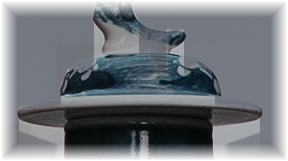
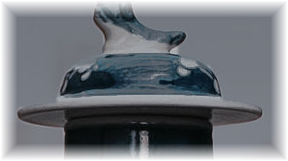
Deploy

diff --git a/assets/index-BKTSKZqw.css b/assets/index-BKTSKZqw.css
@@ -1,0 +1,1 @@
+/*! tailwindcss v4.1.11 | MIT License | https://tailwindcss.com */@layer properties{@supports (((-webkit-hyphens:none)) and (not (margin-trim:inline))) or ((-moz-orient:inline) and (not (color:rgb(from red r g b)))){*,:before,:after,::backdrop{--tw-translate-x:0;--tw-translate-y:0;--tw-translate-z:0;--tw-scale-x:1;--tw-scale-y:1;--tw-scale-z:1;--tw-rotate-x:initial;--tw-rotate-y:initial;--tw-rotate-z:initial;--tw-skew-x:initial;--tw-skew-y:initial;--tw-border-style:solid;--tw-font-weight:initial;--tw-tracking:initial;--tw-ordinal:initial;--tw-slashed-zero:initial;--tw-numeric-figure:initial;--tw-numeric-spacing:initial;--tw-numeric-fraction:initial;--tw-shadow:0 0 #0000;--tw-shadow-color:initial;--tw-shadow-alpha:100%;--tw-inset-shadow:0 0 #0000;--tw-inset-shadow-color:initial;--tw-inset-shadow-alpha:100%;--tw-ring-color:initial;--tw-ring-shadow:0 0 #0000;--tw-inset-ring-color:initial;--tw-inset-ring-shadow:0 0 #0000;--tw-ring-inset:initial;--tw-ring-offset-width:0px;--tw-ring-offset-color:#fff;--tw-ring-offset-shadow:0 0 #0000;--tw-outline-style:solid;--tw-blur:initial;--tw-brightness:initial;--tw-contrast:initial;--tw-grayscale:initial;--tw-hue-rotate:initial;--tw-invert:initial;--tw-opacity:initial;--tw-saturate:initial;--tw-sepia:initial;--tw-drop-shadow:initial;--tw-drop-shadow-color:initial;--tw-drop-shadow-alpha:100%;--tw-drop-shadow-size:initial;--tw-backdrop-blur:initial;--tw-backdrop-brightness:initial;--tw-backdrop-contrast:initial;--tw-backdrop-grayscale:initial;--tw-backdrop-hue-rotate:initial;--tw-backdrop-invert:initial;--tw-backdrop-opacity:initial;--tw-backdrop-saturate:initial;--tw-backdrop-sepia:initial;--tw-duration:initial}}}@layer theme{:root,:host{--font-sans:ui-sans-serif,system-ui,sans-serif,"Apple Color Emoji","Segoe UI Emoji","Segoe UI Symbol","Noto Color Emoji";--font-serif:ui-serif,Georgia,Cambria,"Times New Roman",Times,serif;--font-mono:ui-monospace,SFMono-Regular,Menlo,Monaco,Consolas,"Liberation Mono","Courier New",monospace;--color-blue-200:oklch(88.2% .059 254.128);--color-black:#000;--color-white:#fff;--spacing:.25rem;--container-7xl:80rem;--text-sm:.875rem;--text-sm--line-height:calc(1.25/.875);--text-3xl:1.875rem;--text-3xl--line-height: 1.2 ;--text-4xl:2.25rem;--text-4xl--line-height:calc(2.5/2.25);--text-5xl:3rem;--text-5xl--line-height:1;--font-weight-extralight:200;--font-weight-light:300;--tracking-widest:.1em;--animate-ping:ping 1s cubic-bezier(0,0,.2,1)infinite;--blur-sm:8px;--default-transition-duration:.15s;--default-transition-timing-function:cubic-bezier(.4,0,.2,1);--default-font-family:var(--font-sans);--default-mono-font-family:var(--font-mono)}}@layer base{*,:after,:before,::backdrop{box-sizing:border-box;border:0 solid;margin:0;padding:0}::file-selector-button{box-sizing:border-box;border:0 solid;margin:0;padding:0}html,:host{-webkit-text-size-adjust:100%;tab-size:4;line-height:1.5;font-family:var(--default-font-family,ui-sans-serif,system-ui,sans-serif,"Apple Color Emoji","Segoe UI Emoji","Segoe UI Symbol","Noto Color Emoji");font-feature-settings:var(--default-font-feature-settings,normal);font-variation-settings:var(--default-font-variation-settings,normal);-webkit-tap-highlight-color:transparent}hr{height:0;color:inherit;border-top-width:1px}abbr:where([title]){-webkit-text-decoration:underline dotted;text-decoration:underline dotted}h1,h2,h3,h4,h5,h6{font-size:inherit;font-weight:inherit}a{color:inherit;-webkit-text-decoration:inherit;text-decoration:inherit}b,strong{font-weight:bolder}code,kbd,samp,pre{font-family:var(--default-mono-font-family,ui-monospace,SFMono-Regular,Menlo,Monaco,Consolas,"Liberation Mono","Courier New",monospace);font-feature-settings:var(--default-mono-font-feature-settings,normal);font-variation-settings:var(--default-mono-font-variation-settings,normal);font-size:1em}small{font-size:80%}sub,sup{vertical-align:baseline;font-size:75%;line-height:0;position:relative}sub{bottom:-.25em}sup{top:-.5em}table{text-indent:0;border-color:inherit;border-collapse:collapse}:-moz-focusring{outline:auto}progress{vertical-align:baseline}summary{display:list-item}ol,ul,menu{list-style:none}img,svg,video,canvas,audio,iframe,embed,object{vertical-align:middle;display:block}img,video{max-width:100%;height:auto}button,input,select,optgroup,textarea{font:inherit;font-feature-settings:inherit;font-variation-settings:inherit;letter-spacing:inherit;color:inherit;opacity:1;background-color:#0000;border-radius:0}::file-selector-button{font:inherit;font-feature-settings:inherit;font-variation-settings:inherit;letter-spacing:inherit;color:inherit;opacity:1;background-color:#0000;border-radius:0}:where(select:is([multiple],[size])) optgroup{font-weight:bolder}:where(select:is([multiple],[size])) optgroup option{padding-inline-start:20px}::file-selector-button{margin-inline-end:4px}::placeholder{opacity:1}@supports (not ((-webkit-appearance:-apple-pay-button))) or (contain-intrinsic-size:1px){::placeholder{color:currentColor}@supports (color:color-mix(in lab,red,red)){::placeholder{color:color-mix(in oklab,currentcolor 50%,transparent)}}}textarea{resize:vertical}::-webkit-search-decoration{-webkit-appearance:none}::-webkit-date-and-time-value{min-height:1lh;text-align:inherit}::-webkit-datetime-edit{display:inline-flex}::-webkit-datetime-edit-fields-wrapper{padding:0}::-webkit-datetime-edit{padding-block:0}::-webkit-datetime-edit-year-field{padding-block:0}::-webkit-datetime-edit-month-field{padding-block:0}::-webkit-datetime-edit-day-field{padding-block:0}::-webkit-datetime-edit-hour-field{padding-block:0}::-webkit-datetime-edit-minute-field{padding-block:0}::-webkit-datetime-edit-second-field{padding-block:0}::-webkit-datetime-edit-millisecond-field{padding-block:0}::-webkit-datetime-edit-meridiem-field{padding-block:0}:-moz-ui-invalid{box-shadow:none}button,input:where([type=button],[type=reset],[type=submit]){appearance:button}::file-selector-button{appearance:button}::-webkit-inner-spin-button{height:auto}::-webkit-outer-spin-button{height:auto}[hidden]:where(:not([hidden=until-found])){display:none!important}}@layer components;@layer utilities{.pointer-events-auto{pointer-events:auto}.pointer-events-none{pointer-events:none}.visible{visibility:visible}.absolute{position:absolute}.fixed{position:fixed}.relative{position:relative}.inset-0{inset:calc(var(--spacing)*0)}.inset-x-0{inset-inline:calc(var(--spacing)*0)}.top-\[13\%\]{top:13%}.top-\[90\%\]{top:90%}.right-5{right:calc(var(--spacing)*5)}.bottom-5{bottom:calc(var(--spacing)*5)}.z-10{z-index:10}.z-30{z-index:30}.z-40{z-index:40}.mx-auto{margin-inline:auto}.mt-2{margin-top:calc(var(--spacing)*2)}.flex{display:flex}.grid{display:grid}.hidden{display:none}.inline-flex{display:inline-flex}.table{display:table}.h-2\.5{height:calc(var(--spacing)*2.5)}.h-11{height:calc(var(--spacing)*11)}.h-26{height:calc(var(--spacing)*26)}.h-dvh{height:100dvh}.h-full{height:100%}.min-h-24{min-height:calc(var(--spacing)*24)}.w-2\.5{width:calc(var(--spacing)*2.5)}.w-11{width:calc(var(--spacing)*11)}.w-auto{width:auto}.w-full{width:100%}.max-w-7xl{max-width:var(--container-7xl)}.-translate-y-1\/2{--tw-translate-y: -50% ;translate:var(--tw-translate-x)var(--tw-translate-y)}.scale-110{--tw-scale-x:110%;--tw-scale-y:110%;--tw-scale-z:110%;scale:var(--tw-scale-x)var(--tw-scale-y)}.transform{transform:var(--tw-rotate-x,)var(--tw-rotate-y,)var(--tw-rotate-z,)var(--tw-skew-x,)var(--tw-skew-y,)}.animate-ping{animation:var(--animate-ping)}.resize{resize:both}.flex-col{flex-direction:column}.items-center{align-items:center}.items-end{align-items:flex-end}.justify-center{justify-content:center}.gap-3{gap:calc(var(--spacing)*3)}.gap-6{gap:calc(var(--spacing)*6)}.gap-10{gap:calc(var(--spacing)*10)}.overflow-hidden{overflow:hidden}.rounded{border-radius:.25rem}.rounded-full{border-radius:3.40282e38px}.border{border-style:var(--tw-border-style);border-width:1px}.border-white\/15{border-color:#ffffff26}@supports (color:color-mix(in lab,red,red)){.border-white\/15{border-color:color-mix(in oklab,var(--color-white)15%,transparent)}}.border-white\/20{border-color:#fff3}@supports (color:color-mix(in lab,red,red)){.border-white\/20{border-color:color-mix(in oklab,var(--color-white)20%,transparent)}}.bg-\[\#4d7dff\]{background-color:#4d7dff}.bg-\[\#030308\]{background-color:#030308}.bg-black\/25{background-color:#00000040}@supports (color:color-mix(in lab,red,red)){.bg-black\/25{background-color:color-mix(in oklab,var(--color-black)25%,transparent)}}.bg-black\/30{background-color:#0000004d}@supports (color:color-mix(in lab,red,red)){.bg-black\/30{background-color:color-mix(in oklab,var(--color-black)30%,transparent)}}.object-cover{object-fit:cover}.px-4{padding-inline:calc(var(--spacing)*4)}.px-8{padding-inline:calc(var(--spacing)*8)}.py-4{padding-block:calc(var(--spacing)*4)}.pr-16{padding-right:calc(var(--spacing)*16)}.font-serif{font-family:var(--font-serif)}.text-3xl{font-size:var(--text-3xl);line-height:var(--tw-leading,var(--text-3xl--line-height))}.text-4xl{font-size:var(--text-4xl);line-height:var(--tw-leading,var(--text-4xl--line-height))}.text-sm{font-size:var(--text-sm);line-height:var(--tw-leading,var(--text-sm--line-height))}.text-\[10px\]{font-size:10px}.font-extralight{--tw-font-weight:var(--font-weight-extralight);font-weight:var(--font-weight-extralight)}.font-light{--tw-font-weight:var(--font-weight-light);font-weight:var(--font-weight-light)}.tracking-\[0\.5em\]{--tw-tracking:.5em;letter-spacing:.5em}.tracking-\[0\.15em\]{--tw-tracking:.15em;letter-spacing:.15em}.tracking-\[0\.35em\]{--tw-tracking:.35em;letter-spacing:.35em}.tracking-\[0\.45em\]{--tw-tracking:.45em;letter-spacing:.45em}.tracking-widest{--tw-tracking:var(--tracking-widest);letter-spacing:var(--tracking-widest)}.text-blue-200\/60{color:#bedbff99}@supports (color:color-mix(in lab,red,red)){.text-blue-200\/60{color:color-mix(in oklab,var(--color-blue-200)60%,transparent)}}.text-white{color:var(--color-white)}.text-white\/50{color:#ffffff80}@supports (color:color-mix(in lab,red,red)){.text-white\/50{color:color-mix(in oklab,var(--color-white)50%,transparent)}}.text-white\/60{color:#fff9}@supports (color:color-mix(in lab,red,red)){.text-white\/60{color:color-mix(in oklab,var(--color-white)60%,transparent)}}.text-white\/85{color:#ffffffd9}@supports (color:color-mix(in lab,red,red)){.text-white\/85{color:color-mix(in oklab,var(--color-white)85%,transparent)}}.text-white\/90{color:#ffffffe6}@supports (color:color-mix(in lab,red,red)){.text-white\/90{color:color-mix(in oklab,var(--color-white)90%,transparent)}}.uppercase{text-transform:uppercase}.italic{font-style:italic}.tabular-nums{--tw-numeric-spacing:tabular-nums;font-variant-numeric:var(--tw-ordinal,)var(--tw-slashed-zero,)var(--tw-numeric-figure,)var(--tw-numeric-spacing,)var(--tw-numeric-fraction,)}.opacity-0{opacity:0}.opacity-60{opacity:.6}.opacity-70{opacity:.7}.opacity-100{opacity:1}.shadow{--tw-shadow:0 1px 3px 0 var(--tw-shadow-color,#0000001a),0 1px 2px -1px var(--tw-shadow-color,#0000001a);box-shadow:var(--tw-inset-shadow),var(--tw-inset-ring-shadow),var(--tw-ring-offset-shadow),var(--tw-ring-shadow),var(--tw-shadow)}.shadow-\[0_0_10px_rgba\(77\,125\,255\,0\.9\)\]{--tw-shadow:0 0 10px var(--tw-shadow-color,#4d7dffe6);box-shadow:var(--tw-inset-shadow),var(--tw-inset-ring-shadow),var(--tw-ring-offset-shadow),var(--tw-ring-shadow),var(--tw-shadow)}.ring{--tw-ring-shadow:var(--tw-ring-inset,)0 0 0 calc(1px + var(--tw-ring-offset-width))var(--tw-ring-color,currentcolor);box-shadow:var(--tw-inset-shadow),var(--tw-inset-ring-shadow),var(--tw-ring-offset-shadow),var(--tw-ring-shadow),var(--tw-shadow)}.outline{outline-style:var(--tw-outline-style);outline-width:1px}.blur{--tw-blur:blur(8px);filter:var(--tw-blur,)var(--tw-brightness,)var(--tw-contrast,)var(--tw-grayscale,)var(--tw-hue-rotate,)var(--tw-invert,)var(--tw-saturate,)var(--tw-sepia,)var(--tw-drop-shadow,)}.blur-sm{--tw-blur:blur(var(--blur-sm));filter:var(--tw-blur,)var(--tw-brightness,)var(--tw-contrast,)var(--tw-grayscale,)var(--tw-hue-rotate,)var(--tw-invert,)var(--tw-saturate,)var(--tw-sepia,)var(--tw-drop-shadow,)}.filter{filter:var(--tw-blur,)var(--tw-brightness,)var(--tw-contrast,)var(--tw-grayscale,)var(--tw-hue-rotate,)var(--tw-invert,)var(--tw-saturate,)var(--tw-sepia,)var(--tw-drop-shadow,)}.backdrop-blur-sm{--tw-backdrop-blur:blur(var(--blur-sm));-webkit-backdrop-filter:var(--tw-backdrop-blur,)var(--tw-backdrop-brightness,)var(--tw-backdrop-contrast,)var(--tw-backdrop-grayscale,)var(--tw-backdrop-hue-rotate,)var(--tw-backdrop-invert,)var(--tw-backdrop-opacity,)var(--tw-backdrop-saturate,)var(--tw-backdrop-sepia,);backdrop-filter:var(--tw-backdrop-blur,)var(--tw-backdrop-brightness,)var(--tw-backdrop-contrast,)var(--tw-backdrop-grayscale,)var(--tw-backdrop-hue-rotate,)var(--tw-backdrop-invert,)var(--tw-backdrop-opacity,)var(--tw-backdrop-saturate,)var(--tw-backdrop-sepia,)}.transition-all{transition-property:all;transition-timing-function:var(--tw-ease,var(--default-transition-timing-function));transition-duration:var(--tw-duration,var(--default-transition-duration))}.transition-colors{transition-property:color,background-color,border-color,outline-color,text-decoration-color,fill,stroke,--tw-gradient-from,--tw-gradient-via,--tw-gradient-to;transition-timing-function:var(--tw-ease,var(--default-transition-timing-function));transition-duration:var(--tw-duration,var(--default-transition-duration))}.transition-opacity{transition-property:opacity;transition-timing-function:var(--tw-ease,var(--default-transition-timing-function));transition-duration:var(--tw-duration,var(--default-transition-duration))}.duration-300{--tw-duration:.3s;transition-duration:.3s}.will-change-transform{will-change:transform}.select-none{-webkit-user-select:none;user-select:none}.\[perspective\:800px\]{perspective:800px}.\[transform-style\:preserve-3d\]{transform-style:preserve-3d}@media(hover:hover){.group-hover\:text-white:is(:where(.group):hover *){color:var(--color-white)}.hover\:border-white\/45:hover{border-color:#ffffff73}@supports (color:color-mix(in lab,red,red)){.hover\:border-white\/45:hover{border-color:color-mix(in oklab,var(--color-white)45%,transparent)}}.hover\:bg-black\/40:hover{background-color:#0006}@supports (color:color-mix(in lab,red,red)){.hover\:bg-black\/40:hover{background-color:color-mix(in oklab,var(--color-black)40%,transparent)}}.hover\:text-white:hover{color:var(--color-white)}}@media(min-width:48rem){.md\:block{display:block}.md\:hidden{display:none}.md\:gap-10{gap:calc(var(--spacing)*10)}.md\:text-4xl{font-size:var(--text-4xl);line-height:var(--tw-leading,var(--text-4xl--line-height))}.md\:text-5xl{font-size:var(--text-5xl);line-height:var(--tw-leading,var(--text-5xl--line-height))}}@media(min-width:64rem){.lg\:pr-24{padding-right:calc(var(--spacing)*24)}}}html,body{background-color:#030308}@keyframes spin-y{0%{transform:rotateY(0)}to{transform:rotateY(360deg)}}.animate-spin-y{animation:8s linear infinite spin-y}@media(prefers-reduced-motion:reduce){.animate-spin-y{animation:none}}@keyframes cd-reveal{0%{opacity:0;filter:blur(14px);transform:translate(-34px)scale(1.18)}55%{opacity:1}to{opacity:1;filter:blur();transform:translate(0)scale(1)}}.animate-cd-reveal{animation:1.1s cubic-bezier(.16,1,.3,1) both cd-reveal}@media(prefers-reduced-motion:reduce){.animate-cd-reveal{animation:none}}@property --tw-translate-x{syntax:"*";inherits:false;initial-value:0}@property --tw-translate-y{syntax:"*";inherits:false;initial-value:0}@property --tw-translate-z{syntax:"*";inherits:false;initial-value:0}@property --tw-scale-x{syntax:"*";inherits:false;initial-value:1}@property --tw-scale-y{syntax:"*";inherits:false;initial-value:1}@property --tw-scale-z{syntax:"*";inherits:false;initial-value:1}@property --tw-rotate-x{syntax:"*";inherits:false}@property --tw-rotate-y{syntax:"*";inherits:false}@property --tw-rotate-z{syntax:"*";inherits:false}@property --tw-skew-x{syntax:"*";inherits:false}@property --tw-skew-y{syntax:"*";inherits:false}@property --tw-border-style{syntax:"*";inherits:false;initial-value:solid}@property --tw-font-weight{syntax:"*";inherits:false}@property --tw-tracking{syntax:"*";inherits:false}@property --tw-ordinal{syntax:"*";inherits:false}@property --tw-slashed-zero{syntax:"*";inherits:false}@property --tw-numeric-figure{syntax:"*";inherits:false}@property --tw-numeric-spacing{syntax:"*";inherits:false}@property --tw-numeric-fraction{syntax:"*";inherits:false}@property --tw-shadow{syntax:"*";inherits:false;initial-value:0 0 #0000}@property --tw-shadow-color{syntax:"*";inherits:false}@property --tw-shadow-alpha{syntax:"<percentage>";inherits:false;initial-value:100%}@property --tw-inset-shadow{syntax:"*";inherits:false;initial-value:0 0 #0000}@property --tw-inset-shadow-color{syntax:"*";inherits:false}@property --tw-inset-shadow-alpha{syntax:"<percentage>";inherits:false;initial-value:100%}@property --tw-ring-color{syntax:"*";inherits:false}@property --tw-ring-shadow{syntax:"*";inherits:false;initial-value:0 0 #0000}@property --tw-inset-ring-color{syntax:"*";inherits:false}@property --tw-inset-ring-shadow{syntax:"*";inherits:false;initial-value:0 0 #0000}@property --tw-ring-inset{syntax:"*";inherits:false}@property --tw-ring-offset-width{syntax:"<length>";inherits:false;initial-value:0}@property --tw-ring-offset-color{syntax:"*";inherits:false;initial-value:#fff}@property --tw-ring-offset-shadow{syntax:"*";inherits:false;initial-value:0 0 #0000}@property --tw-outline-style{syntax:"*";inherits:false;initial-value:solid}@property --tw-blur{syntax:"*";inherits:false}@property --tw-brightness{syntax:"*";inherits:false}@property --tw-contrast{syntax:"*";inherits:false}@property --tw-grayscale{syntax:"*";inherits:false}@property --tw-hue-rotate{syntax:"*";inherits:false}@property --tw-invert{syntax:"*";inherits:false}@property --tw-opacity{syntax:"*";inherits:false}@property --tw-saturate{syntax:"*";inherits:false}@property --tw-sepia{syntax:"*";inherits:false}@property --tw-drop-shadow{syntax:"*";inherits:false}@property --tw-drop-shadow-color{syntax:"*";inherits:false}@property --tw-drop-shadow-alpha{syntax:"<percentage>";inherits:false;initial-value:100%}@property --tw-drop-shadow-size{syntax:"*";inherits:false}@property --tw-backdrop-blur{syntax:"*";inherits:false}@property --tw-backdrop-brightness{syntax:"*";inherits:false}@property --tw-backdrop-contrast{syntax:"*";inherits:false}@property --tw-backdrop-grayscale{syntax:"*";inherits:false}@property --tw-backdrop-hue-rotate{syntax:"*";inherits:false}@property --tw-backdrop-invert{syntax:"*";inherits:false}@property --tw-backdrop-opacity{syntax:"*";inherits:false}@property --tw-backdrop-saturate{syntax:"*";inherits:false}@property --tw-backdrop-sepia{syntax:"*";inherits:false}@property --tw-duration{syntax:"*";inherits:false}@keyframes ping{75%,to{opacity:0;transform:scale(2)}}

diff --git a/index.html b/index.html
@@ -10,8 +10,8 @@
     <meta name="viewport" content="width=device-width, initial-scale=1.0" />
     <meta name="description" content="ATTE - 16.10.2026" />
     <title>ATTE</title>
-    <script type="module" crossorigin src="./assets/index-h0SCnShx.js"></script>
-    <link rel="stylesheet" crossorigin href="./assets/index-fKKSDODT.css">
+    <script type="module" crossorigin src="./assets/index-Cc_Ifh7_.js"></script>
+    <link rel="stylesheet" crossorigin href="./assets/index-BKTSKZqw.css">
   </head>
   <body style="background-color: #030308">
     <div id="root"></div>
